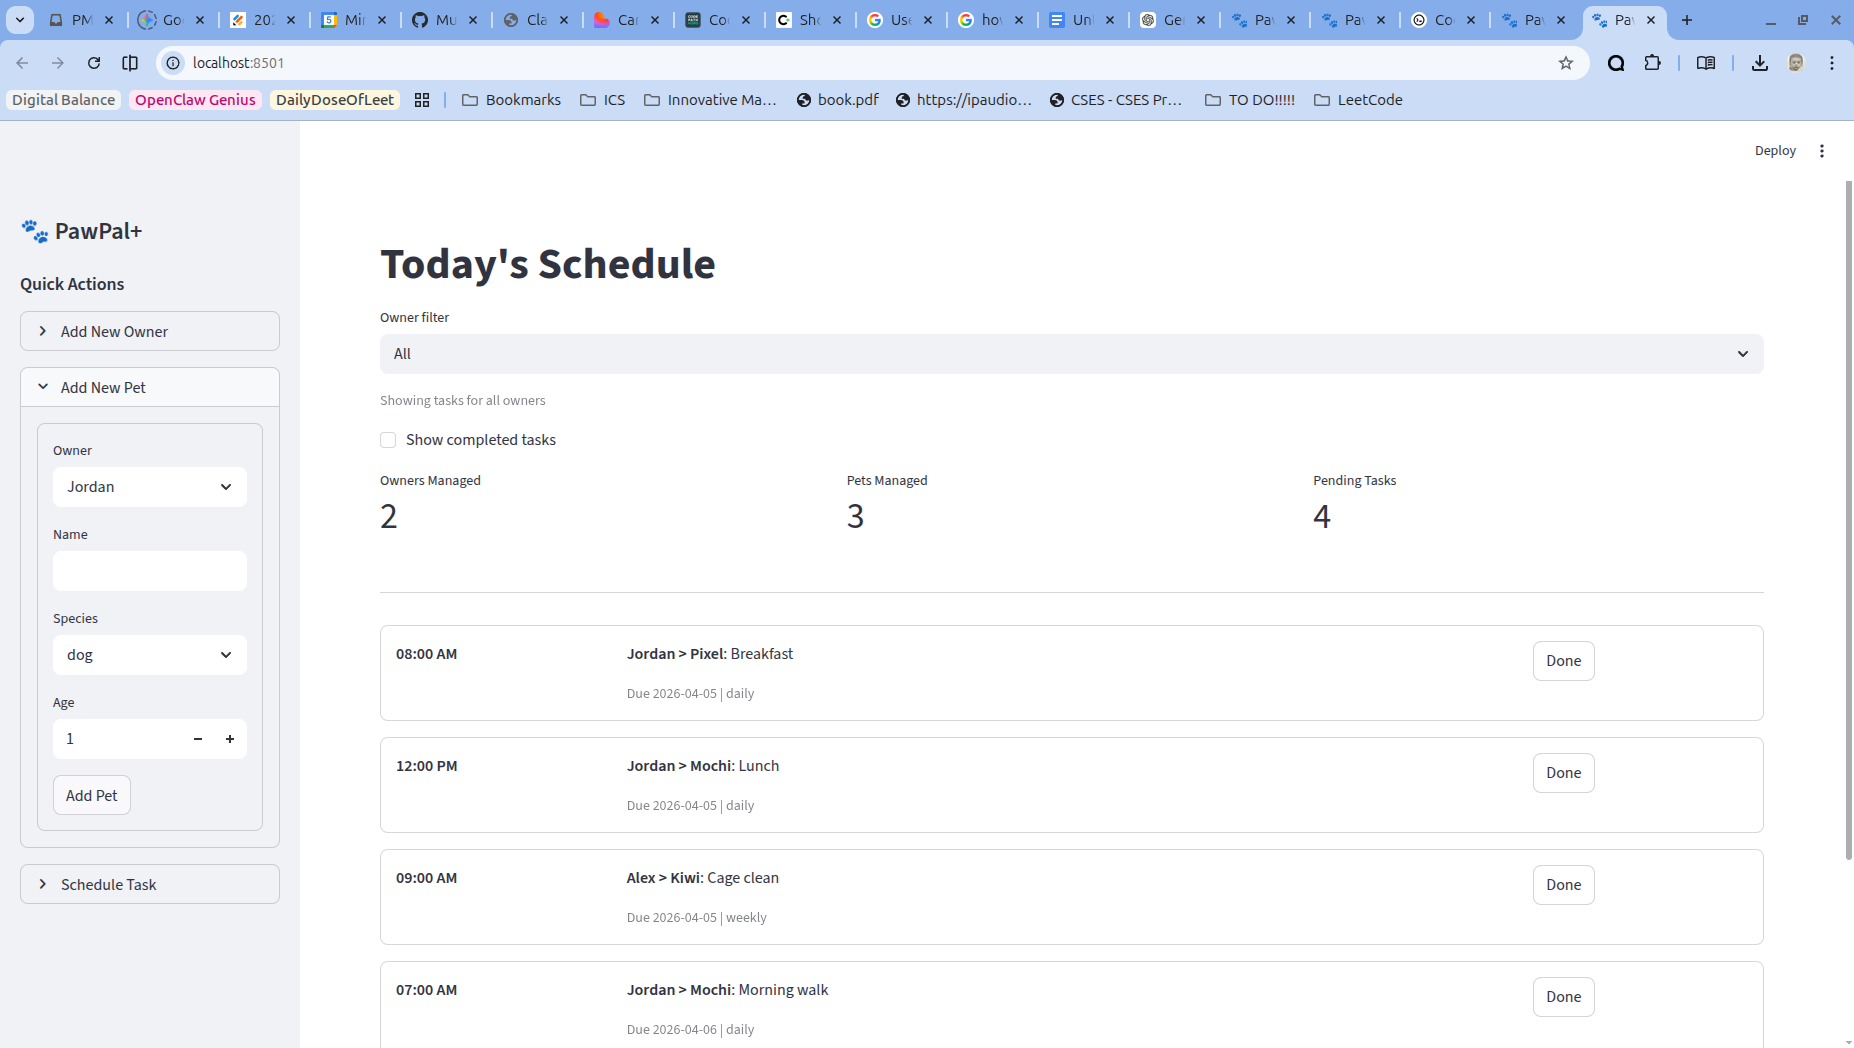
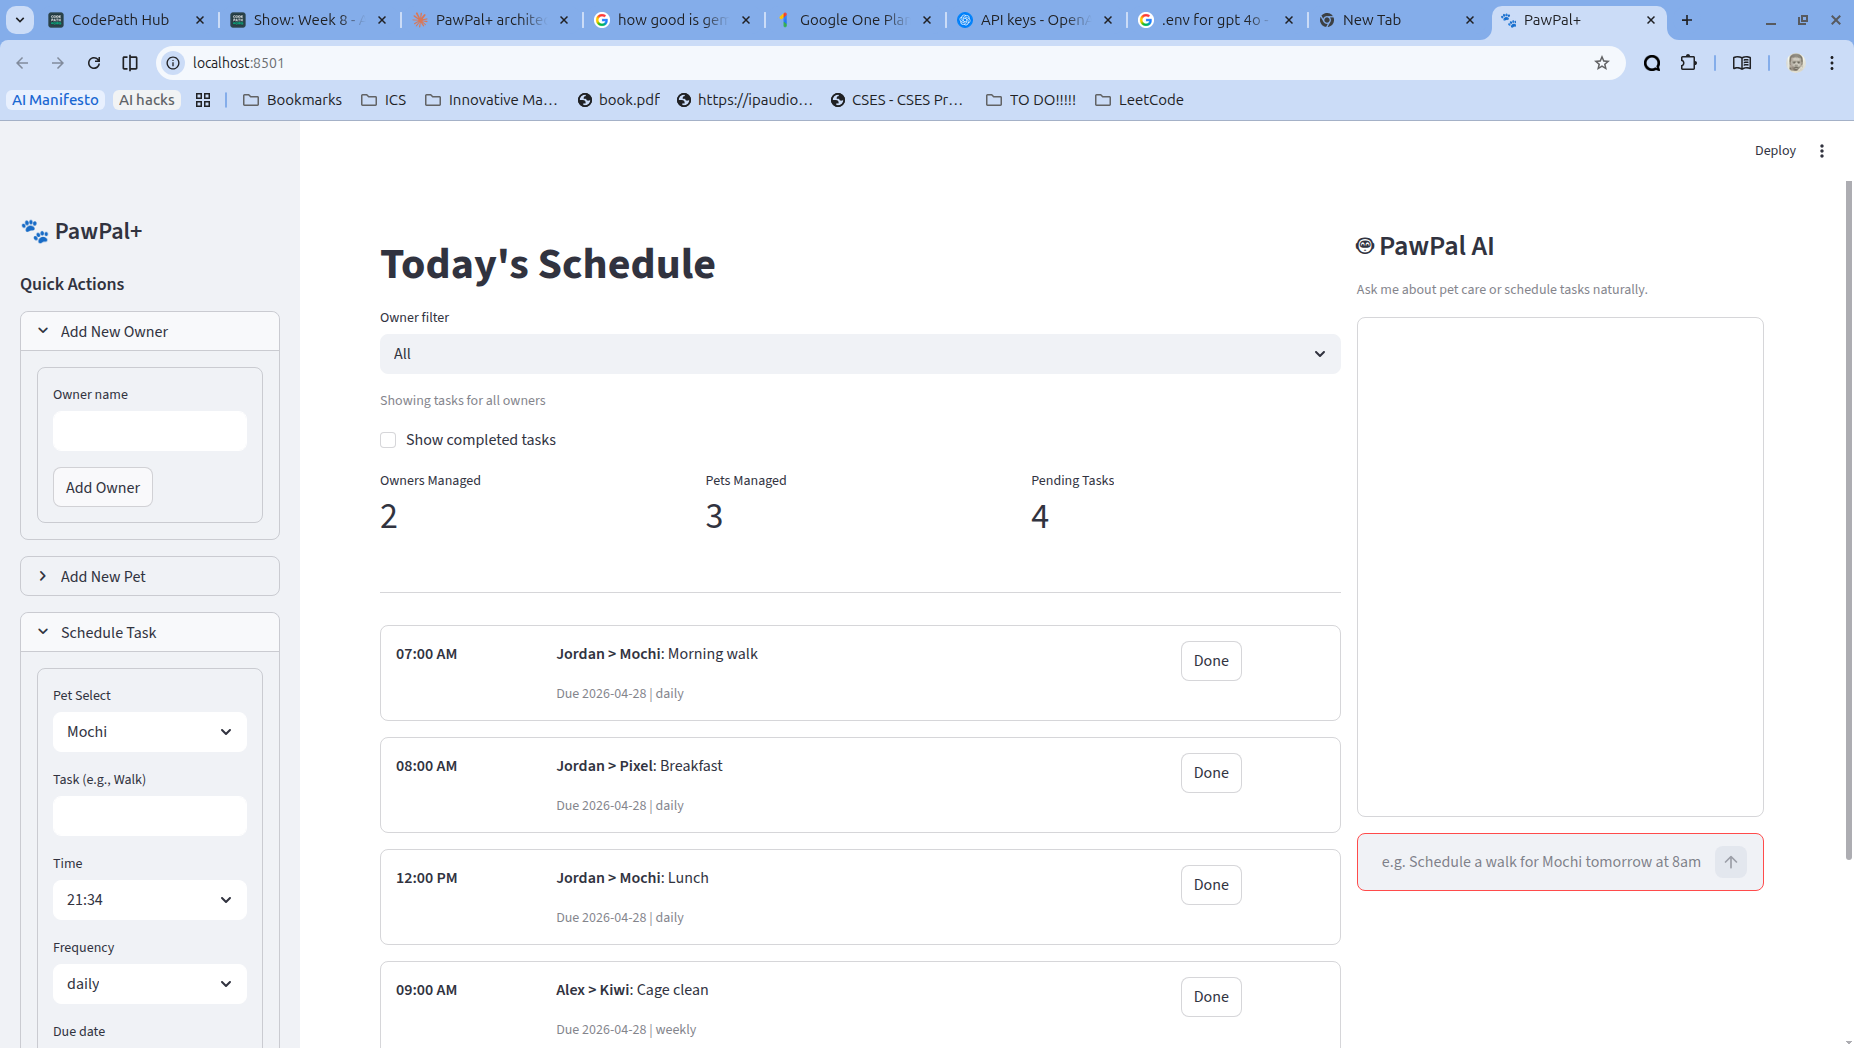
docs: add final project checklist and update README to reflect AI system enhancements

diff --git a/docs/final_project_checklist.md b/docs/final_project_checklist.md
@@ -1,0 +1,44 @@
+# Applied AI System Project: Final Submission Checklist
+
+## 1. Functionality: What Your System Should Do
+- [x] **Project does something useful with AI**: PawPal+ uses AI to act as a conversational pet-care scheduling assistant.
+- [x] **Advanced AI Features**:
+  - **Retrieval-Augmented Generation (RAG)**: The system searches through local markdown files containing pet-care guidelines before answering.
+  - **Agentic Workflow**: The GPT-4o agent uses function calling to act autonomously (reading schedules, adding tasks, and flagging conflicts).
+- [x] **Runs correctly and reproducibly**: Can be launched via `streamlit run app.py`.
+- [x] **Includes logging or guardrails**: All agent tool invocations are logged with timestamps to `pawpal.log`.
+- [x] **Clear setup steps**: Full setup and installation commands are detailed in `README.md`.
+
+## 2. Design and Architecture
+- [x] **System diagram**: Created and saved as `docs/class_diagram.md` (with UML architecture), showing the flow between the UI, Agent, Tools, and RAG Knowledge Base.
+
+## 3. Documentation
+- [x] **README Updates**:
+  - The README explicitly names the original project and summarizes its goals.
+  - Includes Title and summary of the new AI capabilities.
+  - Architecture overview is documented.
+  - Setup instructions (API keys, requirements) are provided.
+  - Sample interactions are included.
+  - Design decisions and testing summary.
+  - Reflection section is present.
+
+## 4. Reliability and Evaluation
+- [x] **Automated tests**: 29 passing Pytest tests covering the agent tools, RAG logic, and legacy scheduler.
+- [x] **Confidence scoring**: The AI evaluates its own "Actionability" (1-5 scale) to determine if a request is safe to automate or requires a human professional.
+- [x] **Logging and error handling**: `pawpal.log` catches and tracks tool executions during agent interactions.
+- [x] **Human evaluation & Testing Summary**: 29 out of 29 tests passed cleanly. During human evaluation, the AI performed well at routing routine scheduling tasks but initially struggled to show "low confidence" for medical emergencies until we updated the system prompt to explicitly define an actionability scale based strictly on the provided knowledge base.
+
+## 5. Reflection and Ethics
+
+**What are the limitations or biases in your system?**
+The AI is limited by the strict boundaries of the markdown files provided in the `knowledge/` directory. If a pet breed has a very specific physiological anomaly not listed in the standard guidelines, the AI might give generic advice that doesn't perfectly fit. Additionally, it has an inherent bias toward "agreeableness" from its pre-training, which originally caused it to confidently attempt to answer medical questions rather than escalating them.
+
+**Could your AI be misused, and how would you prevent that?**
+Users might misuse the AI by relying on it as a substitute for a real veterinarian when their pet is severely ill. To prevent this, we implemented the `flag_conflict_or_gap` tool and the "Actionability Score" system, which forces the AI to output a score of "1" when dealing with medical symptoms, immediately signaling that the system is unauthorized to handle the request safely on its own.
+
+**What surprised you while testing your AI's reliability?**
+I was surprised by how difficult it was to force the AI to lower its "confidence" score for emergencies. Because GPT-4o is heavily pre-trained, it inherently "knew" that chocolate was toxic to dogs, so it gave itself a 5/5 confidence rating for that advice. I had to explicitly redesign the system prompt to score "System Actionability" instead, forcing it to grade its *authorization* rather than its *knowledge certainty*.
+
+**Describe your collaboration with AI during this project. Identify one instance when the AI gave a helpful suggestion and one instance where its suggestion was flawed or incorrect.**
+- **Helpful Suggestion**: The AI was extremely helpful in identifying the Streamlit + ChromaDB hot-reload bug. It quickly analyzed the `AttributeError: 'RustBindingsAPI'` error and correctly suggested wrapping the `KnowledgeBase` and `PawPalAgent` initializations in `@st.cache_resource` to prevent the database from crashing on multiple thread calls.
+- **Flawed Suggestion**: When trying to input the correct API key into the Streamlit secret manager, I initially opted for .env not knowing that the AI pre-built the system for Streamlit secrets. And then I was trying to debug this using the AI but at some point I realized that the secrets was already built in so it's just easier to switch to that. And then the AI on first refractor got it working.

diff --git a/README.md b/README.md
@@ -1,18 +1,12 @@
-# PawPal+ (Module 2 Project)
+# PawPal+ AI: Intelligent Pet-Care Assistant
 
-You are building **PawPal+**, a Streamlit app that helps a pet owner plan care tasks for their pet.
+**Video Walkthrough**: [🔗 Insert your Loom Video Link Here]()
 
-## Scenario
+## About The Original Project (Modules 1-3)
+The original project, **PawPal+**, was a Streamlit app designed to help a pet owner plan care tasks for their pet. It allowed users to track tasks (walks, feeding, meds, grooming) and produced a daily schedule based on constraints and priorities using a legacy backend scheduler.
 
-A busy pet owner needs help staying consistent with pet care. They want an assistant that can:
-
-- Track pet care tasks (walks, feeding, meds, enrichment, grooming, etc.)
-- Consider constraints (time available, priority, owner preferences)
-- Produce a daily plan and explain why it chose that plan
-
-Your job is to design the system first (UML), then implement the logic in Python, then connect it to the Streamlit UI.
-
-## What you will build
+## What it does now (Final AI System)
+PawPal+ has been upgraded into a fully autonomous, conversational AI assistant using GPT-4o. It integrates an agentic workflow that can read, write, and manage your pet's schedule directly from the chat interface. Furthermore, it incorporates a Retrieval-Augmented Generation (RAG) system using ChromaDB to ground its advice in actual pet-care medical documentation, ensuring safe, reliable, and actionable scheduling.
 
 Your final app should:
 
